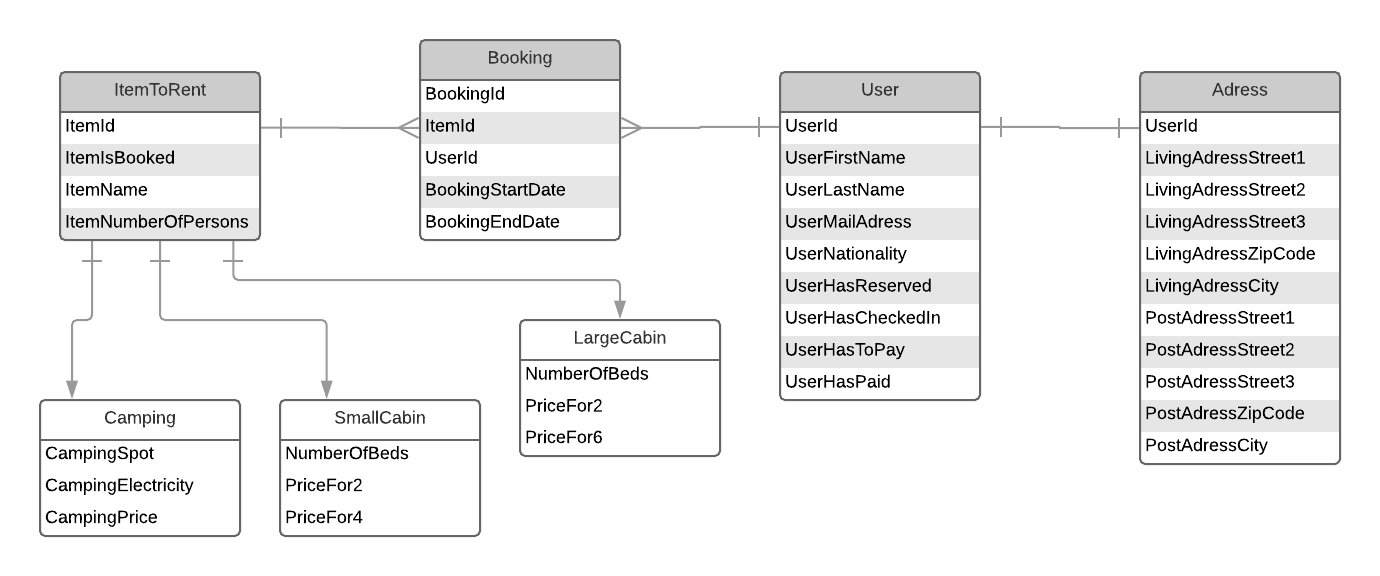
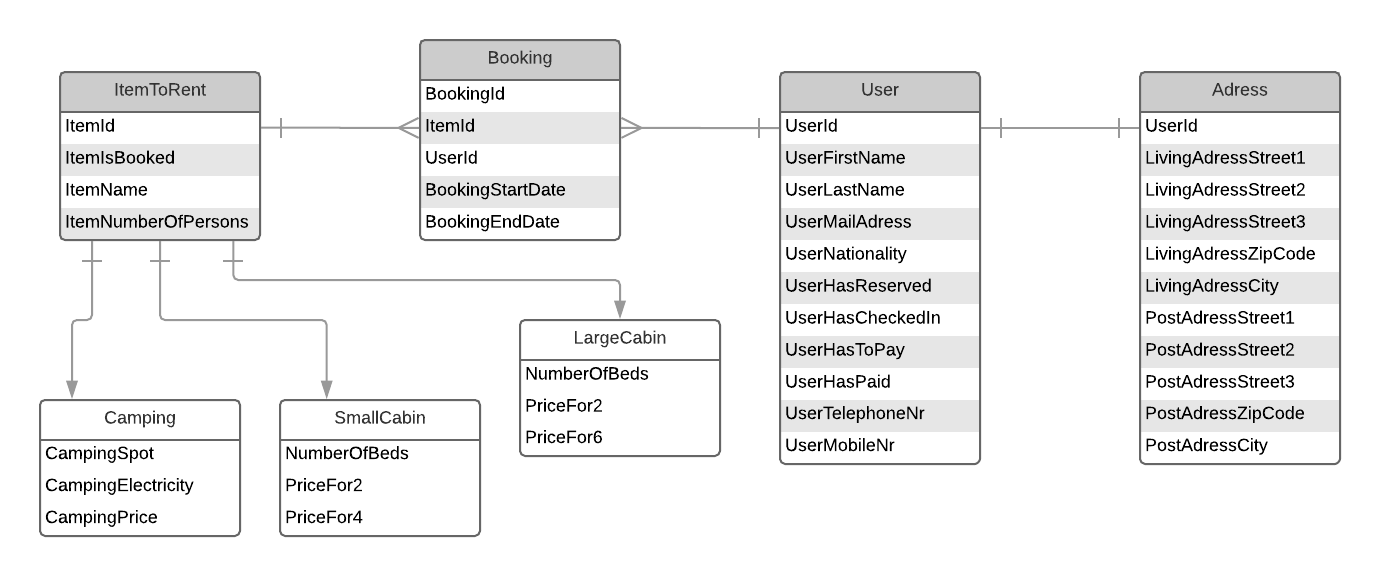
database cleanup

Changed region(s): [[0.5609, 0.6875, 0.7167, 0.8125], [0.7167, 0.2188, 0.7478, 0.25], [0.5297, 0.2188, 0.5609, 0.25]]

diff --git a/Camping2000/Models/Adress.cs b/Camping2000/Models/Adress.cs
@@ -3,6 +3,7 @@ using System.Web;
 using System.Web.Services;
 using System.Web.Services.Protocols;
 using System.ComponentModel;
+using System.ComponentModel.DataAnnotations;
 
 namespace Camping2000
 {
@@ -15,31 +16,31 @@ namespace Camping2000
             {
             }
         }
-
-        public int LivingAdressStreet1
+        [MaxLength(100)]
+        public string LivingAdressStreet1
         {
-            get => default(int);
+            get => default(string);
             set
             {
             }
         }
-
-        public int LivingAdressStreet2
+        [MaxLength(100)]
+        public string LivingAdressStreet2
         {
-            get => default(int);
+            get => default(string);
             set
             {
             }
         }
-
-        public int LivingAdressStreet3
+        [MaxLength(100)]
+        public string LivingAdressStreet3
         {
-            get => default(int);
+            get => default(string);
             set
             {
             }
         }
-
+        [Range(0, 99999)]
         public int LivingAdressZipCode
         {
             get => default(int);
@@ -47,39 +48,39 @@ namespace Camping2000
             {
             }
         }
-
-        public int LivingAdressCity
+        [MaxLength(100)]
+        public string LivingAdressCity
         {
-            get => default(int);
+            get => default(string);
             set
             {
             }
         }
-
-        public int PostAdressStreet1
+        [MaxLength(100)]
+        public string PostAdressStreet1
         {
-            get => default(int);
+            get => default(string);
             set
             {
             }
         }
-
-        public int PostAdressStreet2
+        [MaxLength(100)]
+        public string PostAdressStreet2
         {
-            get => default(int);
+            get => default(string);
             set
             {
             }
         }
-
-        public int PostAdressStreet3
+        [MaxLength(100)]
+        public string PostAdressStreet3
         {
-            get => default(int);
+            get => default(string);
             set
             {
             }
         }
-
+        [Range(0,99999)]
         public int PostAdressZipCode
         {
             get => default(int);
@@ -87,10 +88,10 @@ namespace Camping2000
             {
             }
         }
-
-        public int PostAdressCity
+        [MaxLength(100)]
+        public string PostAdressCity
         {
-            get => default(int);
+            get => default(string);
             set
             {
             }

diff --git a/Camping2000/Models/User.cs b/Camping2000/Models/User.cs
@@ -3,11 +3,13 @@ using System.Web;
 using System.Web.Services;
 using System.Web.Services.Protocols;
 using System.ComponentModel;
+using System.ComponentModel.DataAnnotations;
 
 namespace Camping2000
 {
     public class User
     {
+        [Key]
         public int UserId
         {
             get => default(int);
@@ -15,47 +17,47 @@ namespace Camping2000
             {
             }
         }
-
-        public int UserFirstName
+        [Required]
+        public string UserFirstName
         {
-            get => default(int);
+            get => default(string);
             set
             {
             }
         }
-
-        public int UserNationality
+        [Required]
+        public string UserNationality
         {
-            get => default(int);
+            get => default(string);
             set
             {
             }
         }
-
-        public int UserMailAdress
+        [Required]
+        public string UserMailAdress
         {
-            get => default(int);
+            get => default(string);
             set
             {
             }
         }
-
-        public int UserHasReserved
+        [Required]
+        public bool UserHasReserved
         {
-            get => default(int);
+            get => default(bool);
             set
             {
             }
         }
-
-        public int UserHasCheckedIn
+        [Required]
+        public bool UserHasCheckedIn
         {
-            get => default(int);
+            get => default(bool);
             set
             {
             }
         }
-
+       
         public int UserHasToPay
         {
             get => default(int);
@@ -71,13 +73,15 @@ namespace Camping2000
             {
             }
         }
-
-        public int UserLastName
+        [Required]
+        public string UserLastName
         {
-            get => default(int);
+            get => default(string);
             set
             {
             }
         }
+        public int UserTelephoneNr { get; set; }
+        public int UserMobileNr { get; set; }
     }
 }

diff --git a/Camping2000/Models/Booking.cs b/Camping2000/Models/Booking.cs
@@ -3,11 +3,13 @@ using System.Web;
 using System.Web.Services;
 using System.Web.Services.Protocols;
 using System.ComponentModel;
+using System.ComponentModel.DataAnnotations;
 
 namespace Camping2000
 {
     public class Booking
     {
+        [Required]
         public int ItemId
         {
             get => default(int);
@@ -15,7 +17,7 @@ namespace Camping2000
             {
             }
         }
-
+        [Required]
         public int UserId
         {
             get => default(int);
@@ -23,7 +25,7 @@ namespace Camping2000
             {
             }
         }
-
+        [Key]
         public int BookingId
         {
             get => default(int);
@@ -31,18 +33,18 @@ namespace Camping2000
             {
             }
         }
-
-        public int BookingStartDate
+        [Required]
+        public DateTime BookingStartDate
         {
-            get => default(int);
+            get => default(DateTime);
             set
             {
             }
         }
-
-        public int BookingEndDate
+        [Required]
+        public DateTime BookingEndDate
         {
-            get => default(int);
+            get => default(DateTime);
             set
             {
             }

diff --git a/Camping2000/Models/ItemToRent.cs b/Camping2000/Models/ItemToRent.cs
@@ -3,11 +3,13 @@ using System.Web;
 using System.Web.Services;
 using System.Web.Services.Protocols;
 using System.ComponentModel;
+using System.ComponentModel.DataAnnotations;
 
 namespace Camping2000
 {
-    public class ItemsToRent
+    public class ItemToRent
     {
+        [Key]
         public int ItemId
         {
             get => default(int);
@@ -15,15 +17,13 @@ namespace Camping2000
             {
             }
         }
+        [Required]
+        [MaxLength(40)]
+        public string ItemName
+        { get; set; }
 
-        public int ItemName
-        {
-            get => default(int);
-            set
-            {
-            }
-        }
 
+        [Range(1, 10)]
         public int ItemNumberOfPersons
         {
             get => default(int);
@@ -31,13 +31,7 @@ namespace Camping2000
             {
             }
         }
-
-        public int ItemIsBooked
-        {
-            get => default(int);
-            set
-            {
-            }
-        }
+        [Required]
+        public bool ItemIsBooked { get; set; }
     }
 }

diff --git a/Camping2000/Models/Camping.cs b/Camping2000/Models/Camping.cs
@@ -3,27 +3,29 @@ using System.Web;
 using System.Web.Services;
 using System.Web.Services.Protocols;
 using System.ComponentModel;
+using System.ComponentModel.DataAnnotations;
 
 namespace Camping2000
 {
-    public class Camping
+    public class Camping : ItemToRent
     {
-        public int CampingSpot
+        [Required]
+        public string CampingSpot
         {
-            get => default(int);
+            get => default(string);
             set
             {
             }
         }
-
-        public int CampingElectricity
+        [Required]
+        public bool CampingElectricity
         {
-            get => default(int);
+            get => default(bool);
             set
             {
             }
         }
-
+        [Required]
         public int CampingPrice
         {
             get => default(int);

diff --git a/Camping2000/Models/LargeCabin.cs b/Camping2000/Models/LargeCabin.cs
@@ -6,7 +6,7 @@ using System.ComponentModel;
 
 namespace Camping2000
 {
-    public class LargeCabin
+    public class LargeCabin : ItemToRent
     {
         public int NumberOfBeds
         {

diff --git a/Camping2000/Models/SmallCabin.cs b/Camping2000/Models/SmallCabin.cs
@@ -6,7 +6,7 @@ using System.ComponentModel;
 
 namespace Camping2000
 {
-    public class SmallCabin
+    public class SmallCabin : ItemToRent
     {
         public int NumberOfBeds
         {
